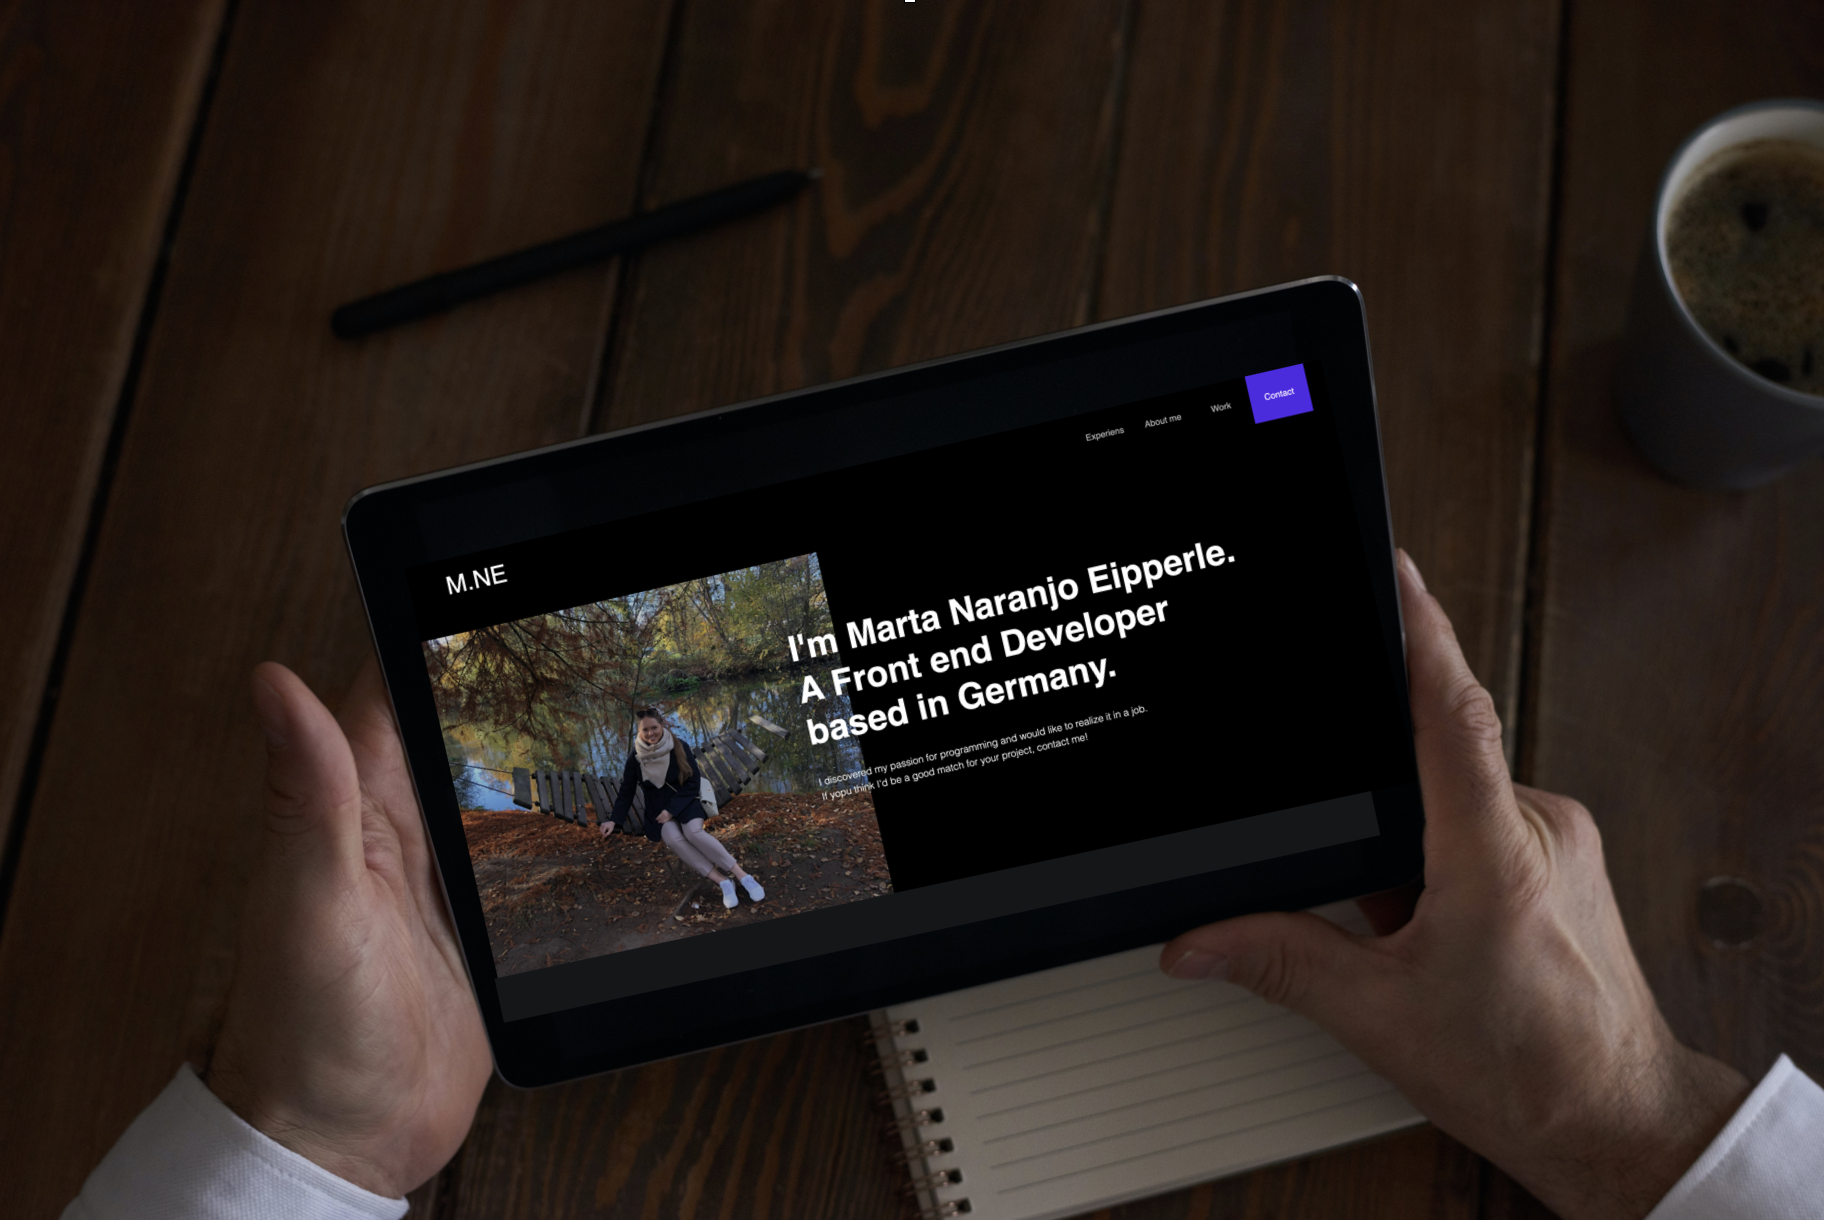
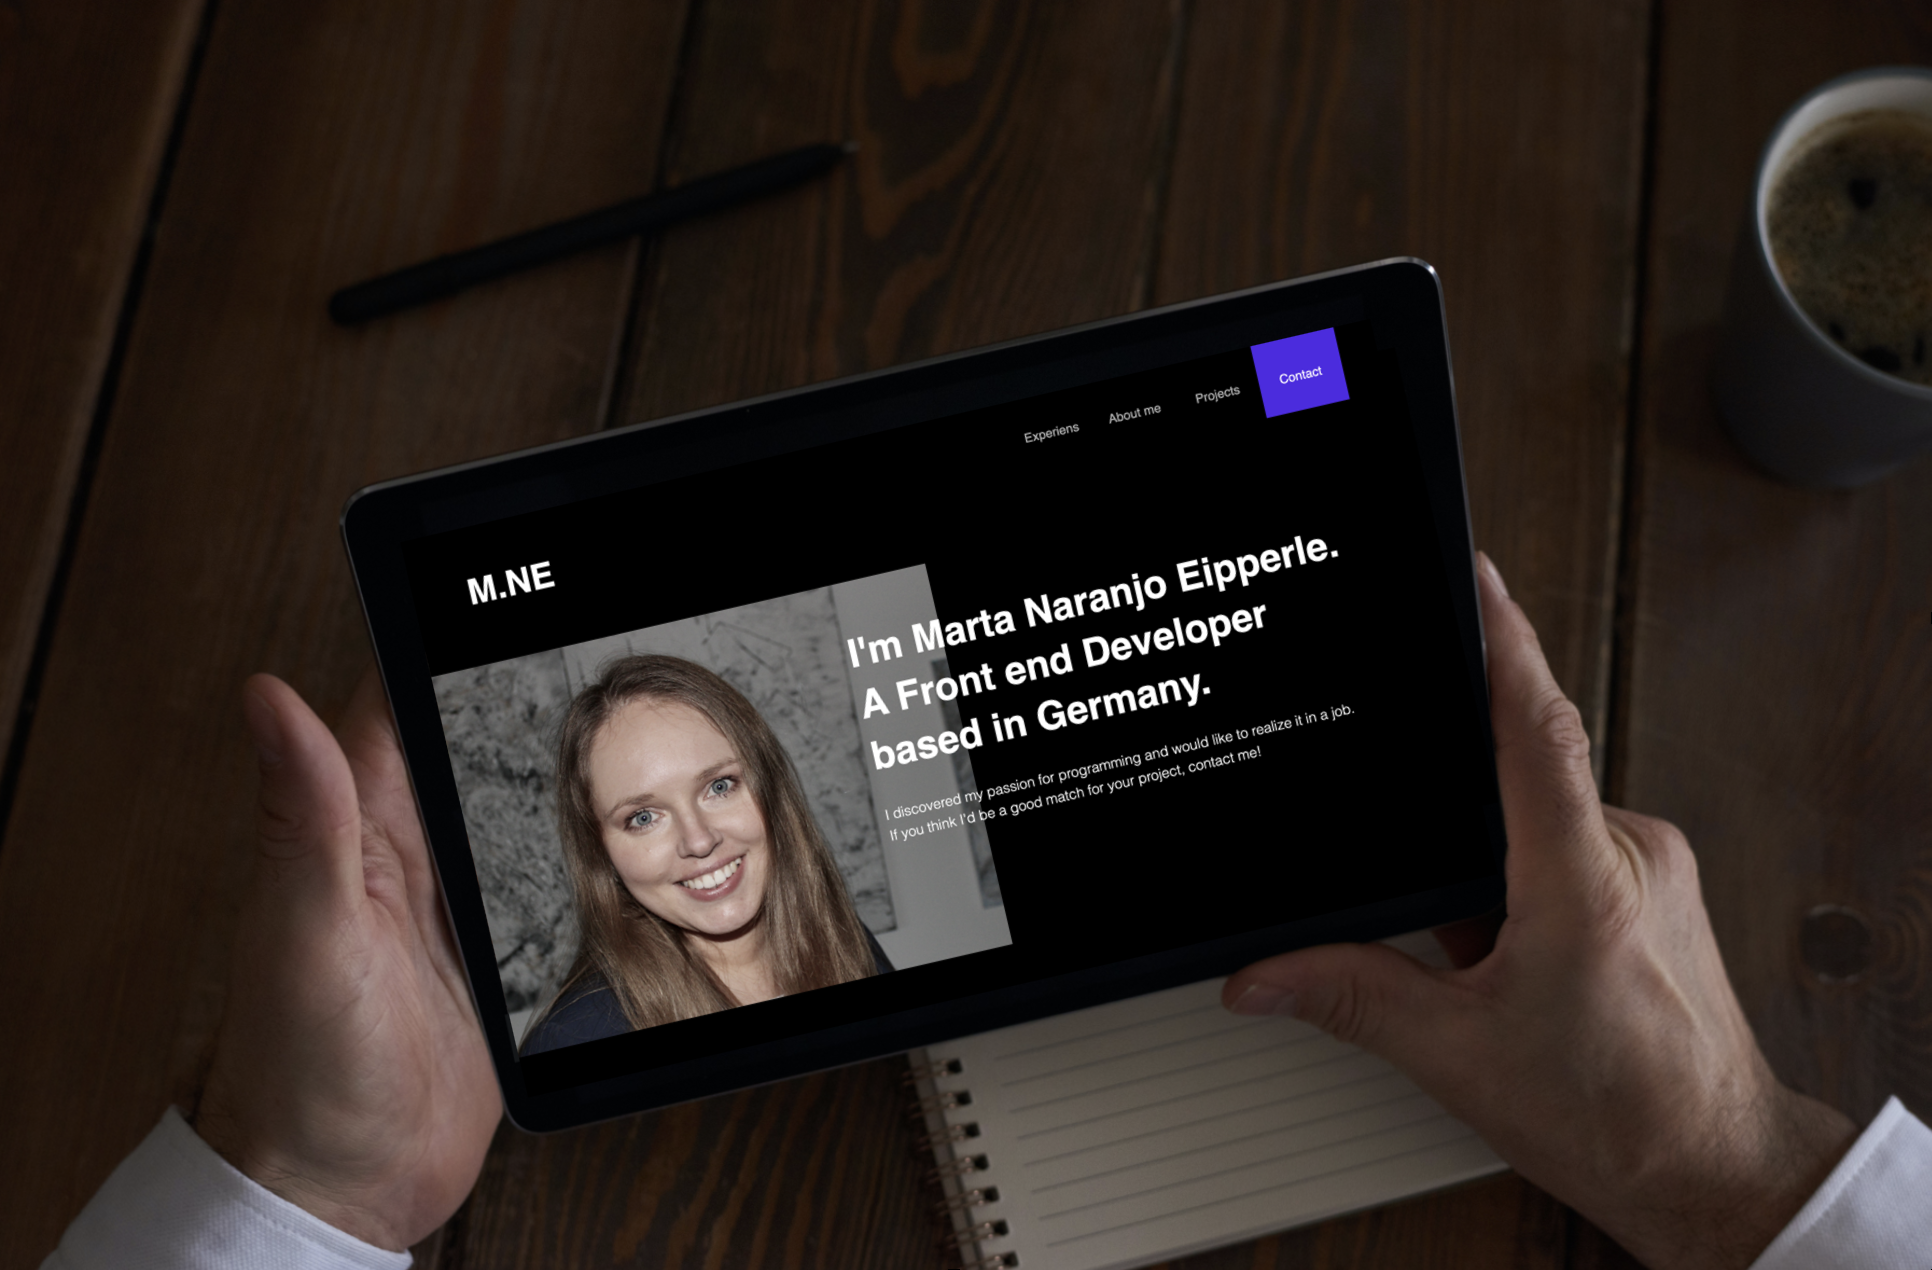
about me

diff --git a/src/app/about-me/about-me.component.html b/src/app/about-me/about-me.component.html
@@ -1,17 +1,35 @@
-
-<div class="about-me" >
+<div class="about-me">
     <h1 data-aos="fade-down">About me</h1>
     <div data-aos="fade-right">
-         Lorem ipsum dolor sit amet consectetur adipisicing elit. 
-        Ab officiis ad dolores modi vero, quidem, vitae labore totam 
-        quis voluptatem earum omnis possimus expedita aut quae? Aspernatur
-         quisquam assumenda officia.
-         Lorem ipsum dolor sit amet consectetur adipisicing elit. Ratione provident eaque aperiam maxime ipsa earum illo vitae autem consequuntur repudiandae dolor sint animi, numquam eveniet eius corrupti rerum, itaque voluptatum?
-    
+        Hello, I'm a 31-year-old German-speaking programmer
+        with experience in developing web applications with
+        JavaScript & Angular. When I wrote my first line of
+        code in July, I knew that this was what I wanted to
+        do with my life. I now decided to complete a retraining
+        as a programmer at the Developer Academy. In the last
+        few months I have used every free hour to learn the common
+        programming languages.
+        </div> 
+        <div data-aos="fade-right" [ngClass]="{
+            'none': !more
+          }">
+        On the basis of various projects
+        I have put the theory into practice. Starting with HTML and CSS,
+        I have also implemented the latest projects with JavaScript
+        and Angular. Thanks to the feedback from the teachers at the
+        Developer Academy, I was able to constantly improve my projects
+        and keep learning. During my retraining I was also able to gain
+        experience in the field of group project work. I really appreciate
+        the exchange with my colleagues, it helps me to better implement
+        my goal-oriented way of working.
+        You are welcome to look at the results of my work here, click through
+        and try everything out.
     </div>
-       
-    <div class="more" data-aos="fade-up"> 
-       <a href="">More about me</a> 
+
+    <div class="more" data-aos="fade-up" [ngClass]="{
+        'none': more
+      }">
+        <div (click)="open()">More about me</div>
     </div>
 </div>
 <div class="image"></div>

diff --git a/src/app/about-me/about-me.component.scss b/src/app/about-me/about-me.component.scss
@@ -3,6 +3,7 @@
     width: 50%;
     padding-left: 77px;
     padding-right: 77px;
+    padding-bottom: 120px;
     font-size: 18px;
     line-height: 170%;
 
@@ -16,9 +17,9 @@
 }
 
 .image {
-    background-image: url('/assets/img/marta2.jpg');
+    background-image: url('/assets/img/marta2.jpeg');
     background-size: cover;
-    background-position: top;
+    background-position: left;
     width: 50%;
     right: 0px;
 }
@@ -27,7 +28,7 @@
     width: 122px;
     margin-top: 120px;
     border-bottom: 1px solid #5B6876;
-    margin-bottom: 120px;
+    
 
     a {
         text-decoration: none;
@@ -37,6 +38,10 @@
             opacity: 0.5;
         }
     }
+}
+
+.none{
+    display: none;
 }
 
 @media(max-width:1200px) {
@@ -59,11 +64,22 @@
             font-size: 45px;
         }
     }
+
+    .image{
+        background-position: bottom 0px right -370px;
+    }
 }
 
+
+@media(max-width:990px) {
+
+    .image{
+        background-position: bottom 0px right -500px;
+    }
+}
 @media(max-width:850px) {
     .about-me {
-        width: 80%;
+        width: 82%;
     }
 
     .image {

diff --git a/src/app/impression/impression.component.scss b/src/app/impression/impression.component.scss
@@ -14,8 +14,8 @@
     height: 650px;
     left: 0px;
     top: 125px;
-    background-position: bottom -106px right 0px;
-    opacity: 0.8;
+    background-position: bottom right -3px;
+    opacity: 0.9;
 }
 
 .me {
@@ -244,7 +244,7 @@
 
     .my-picture {
         width: 100vw;
-        height: 384px;
+        height: 480px;
         background-position: center;
         margin-top: 20px;
     }
@@ -259,7 +259,7 @@
     }
 
     .my-picture {
-        height: 350px;
+        height: 450px;
     }
 
 }
@@ -275,7 +275,7 @@
     }
 
     .my-picture {
-        height: 300px;
+        height: 400px;
     }
 
 }

diff --git a/src/index.html b/src/index.html
@@ -5,6 +5,7 @@
   <title>Portfolio</title>
   <base href="/">
   <meta name="viewport" content="width=device-width, initial-scale=1">
+  <link rel="icon" type="image/x-icon" href="assets/img/favicon.jpeg">
   <link rel="stylesheet" href="https://unpkg.com/aos@next/dist/aos.css" />
   <script src="https://unpkg.com/aos@next/dist/aos.js"></script>
 </head>

diff --git a/src/app/impression/impression.component.html b/src/app/impression/impression.component.html
@@ -8,6 +8,6 @@
     <div class="passion" data-aos="fade-left">
         I discovered my passion for programming
          and would like to realize it in a job.<br>
-         If yopu think I'd be a good match for your project, contact me!
+         If you think I'd be a good match for your project, contact me!
     </div>
 </div>

diff --git a/src/app/about-me/about-me.component.ts b/src/app/about-me/about-me.component.ts
@@ -6,10 +6,14 @@ import { Component, OnInit } from '@angular/core';
   styleUrls: ['./about-me.component.scss']
 })
 export class AboutMeComponent implements OnInit {
-
+more = false
   constructor() { }
 
   ngOnInit(): void {
   }
 
+open(){
+  this.more = true
 }
+}
+
